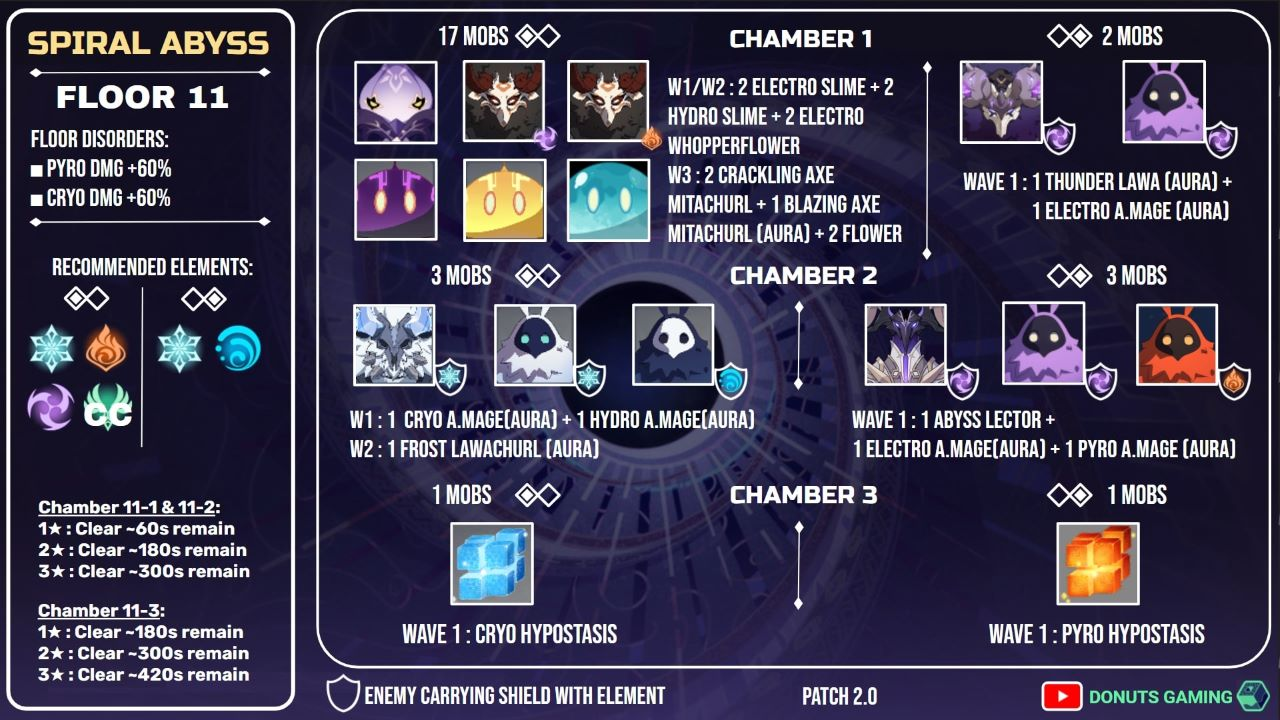
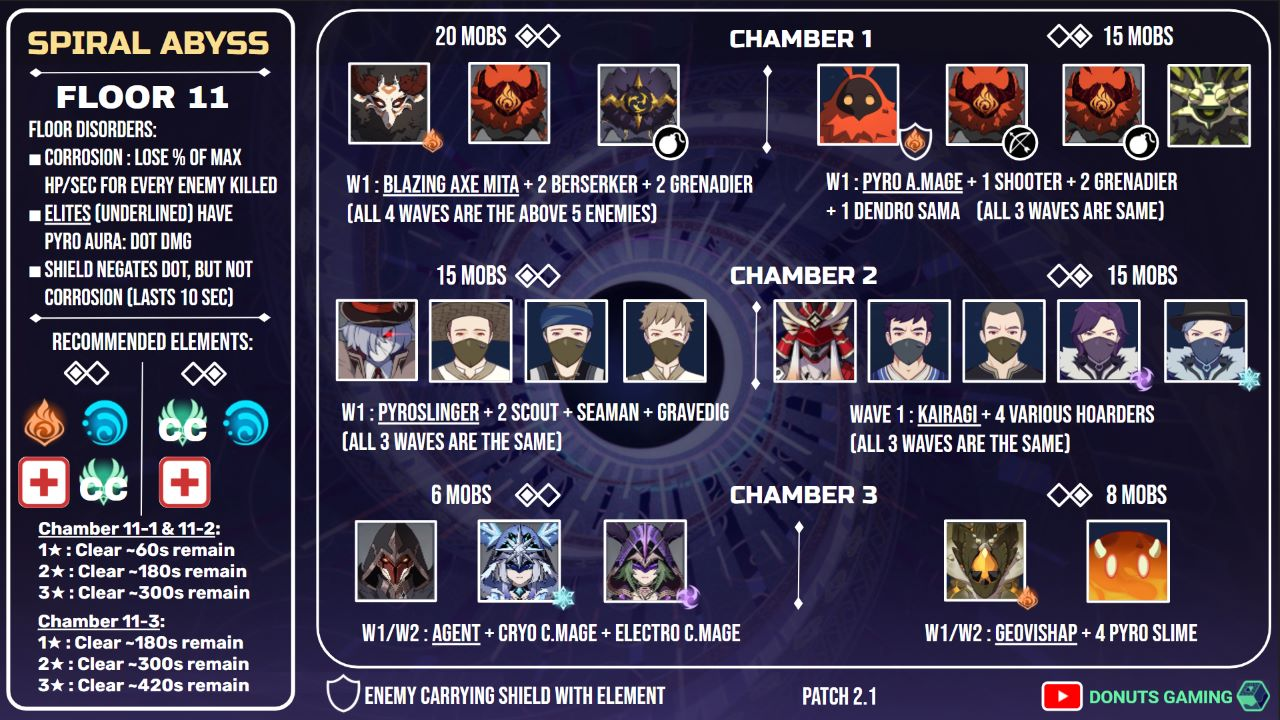
Update abyss details

diff --git a/pages/abyss.js b/pages/abyss.js
@@ -9,11 +9,11 @@ export default function Abyss() {
         <title>Spiral Abyss - Genshin Database</title>
         <meta
           name="description"
-          content="Genshin Impact Spiral Abyss recommendations."
+          content="Genshin Impact Spiral Abyss 2.1 details and recommendations."
         />
         <meta
           name="keywords"
-          content="Genshin Impact, Genshin, Spiral Abyss, Abyss"
+          content="Genshin Impact, Genshin, Spiral Abyss, Abyss, 2.1 Abyss, Database"
         />
         <meta name="author" content="Damon Jensen" />
         <meta
@@ -60,7 +60,7 @@ export default function Abyss() {
 
           <div className="w-full xl:w-1/2 p-2">
             <a
-              href="https://preview.redd.it/cg4id4wcime71.png?width=1920&format=png&auto=webp&s=47645c50403e63b9b43e29f96e121f80fef29978"
+              href="https://preview.redd.it/0kalsfabysn71.png?width=1920&format=png&auto=webp&s=2560f14fb3417d1a50ac591625230905ed873a28"
               target="_blank"
               rel="noreferrer"
             >
@@ -75,7 +75,7 @@ export default function Abyss() {
           </div>
           <div className="w-full xl:w-1/2 p-2">
             <a
-              href="https://preview.redd.it/65omcladime71.png?width=1920&format=png&auto=webp&s=a2deb12a056cd7a1633a3cedf66bd48d8157e263"
+              href="https://preview.redd.it/9l9j3cqdysn71.png?width=1920&format=png&auto=webp&s=d36dbeb91a5527d69f86e5c4226653c90b6f68c4"
               target="_blank"
               rel="noreferrer"
             >
